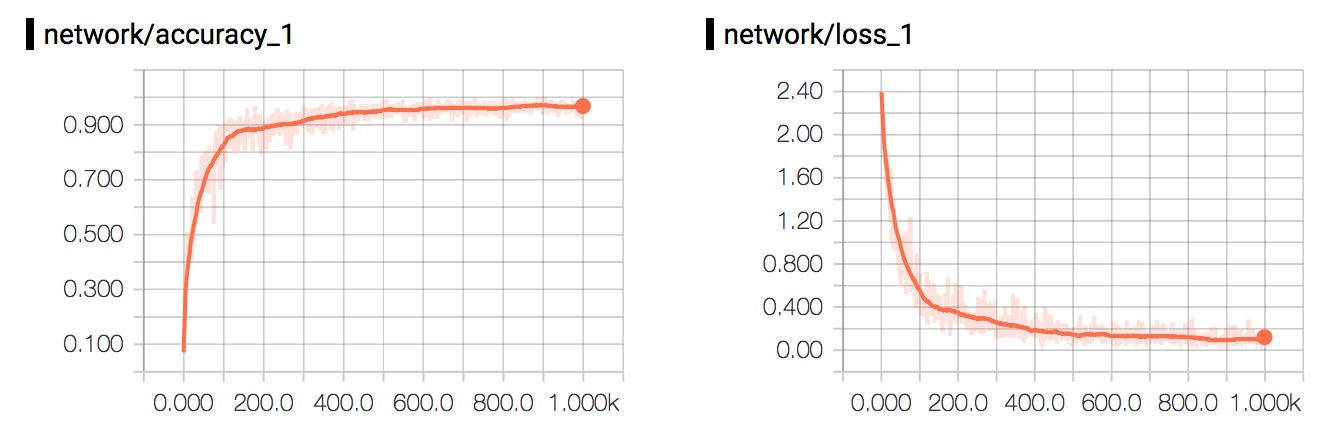
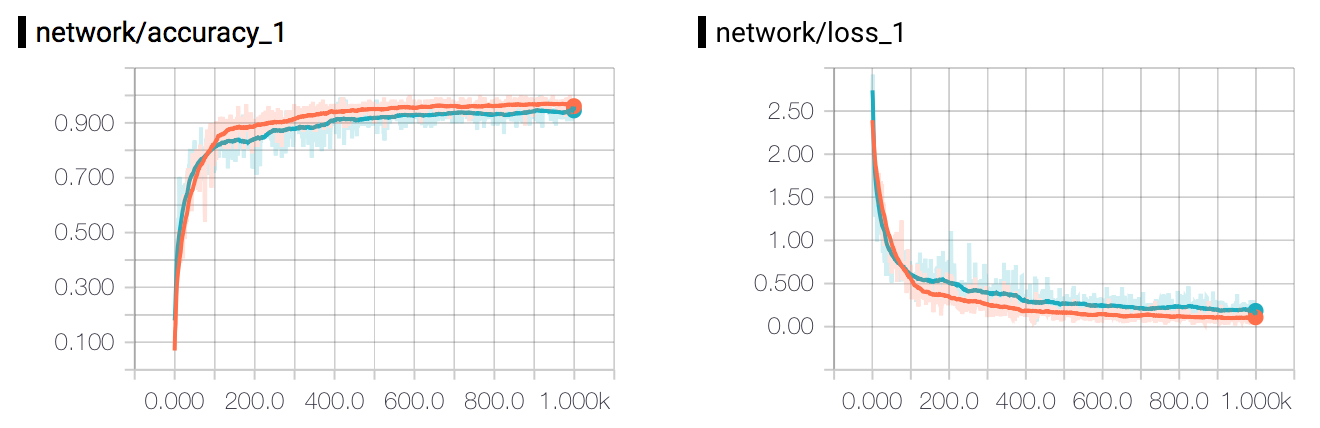
Update with the option to select cell type and update readme accordingly

diff --git a/experiments/rnn-mnist/network.py b/experiments/rnn-mnist/network.py
@@ -1,7 +1,7 @@
 import tensorflow as tf
 
 class RecurrentNeuralNetwork(object):
-    def __init__(self, device, random_seed, hidden_size, input_size, sequence_length, batch_size, learning_rate, optimizer):
+    def __init__(self, device, random_seed, hidden_size, input_size, sequence_length, cell_type, batch_size, learning_rate, optimizer):
         self.sess = tf.Session()
 
         with tf.device(device):
@@ -23,13 +23,18 @@ class RecurrentNeuralNetwork(object):
                 # Target input with shape [?, 10]
                 with tf.name_scope('target_input') as scope:
                     self.y_ = tf.placeholder(tf.float32, shape=[None, 10], name='target-output')
-                
-            lstm_cell = tf.contrib.rnn.BasicLSTMCell(hidden_size, forget_bias=1.0, state_is_tuple=True)
-            with tf.name_scope('initial_state') as scope:
-                state = lstm_cell.zero_state(batch_size, dtype=tf.float32)
+            
+            if cell_type == 'rnn':
+                cell = tf.contrib.rnn.BasicRNNCell(hidden_size)
+                with tf.name_scope('initial_state') as scope:
+                    state = cell.zero_state(batch_size, dtype=tf.float32)
+                    #state = tf.placeholder(tf.float32, [batch_size, hidden_size])
+            else: #LSTM
+                cell = tf.contrib.rnn.BasicLSTMCell(hidden_size, forget_bias=1.0, state_is_tuple=True)
+                with tf.name_scope('initial_state') as scope:
+                    state = cell.zero_state(batch_size, dtype=tf.float32)
 
-
-            outputs, state = tf.contrib.rnn.static_rnn(lstm_cell, x_split, state)
+            outputs, state = tf.contrib.rnn.static_rnn(cell, x_split, state)
             
             # Output with shape [?, 10]
             with tf.name_scope('output') as scope:

diff --git a/experiments/rnn-mnist/rnn-mnist.py b/experiments/rnn-mnist/rnn-mnist.py
@@ -15,7 +15,8 @@ flags = tf.app.flags
 # Network
 flags.DEFINE_integer('sequence_length', 28, 'Length of each RNN sequence.')
 flags.DEFINE_integer('input_size', 28, 'Size of each input.')
-flags.DEFINE_integer('hidden_size', 128, 'Number ofidden LSTM cells.')
+flags.DEFINE_integer('hidden_size', 128, 'Number of hidden cells.')
+flags.DEFINE_string('cell_type', 'lstm', 'Type of cell to use in the RNN.')
 
 # Optimizer
 flags.DEFINE_float('learning_rate', 0.001, 'Learning rate of the optimizer.')
@@ -46,14 +47,16 @@ network = RecurrentNeuralNetwork(
     settings.random_seed, 
     settings.hidden_size, 
     settings.input_size, 
-    settings.sequence_length, 
+    settings.sequence_length,
+    settings.cell_type, 
     settings.minibatch_size, 
     settings.learning_rate, 
     settings.optimizer)
 
 # Statistics summary writer
-summary_dir = '../../logs/rnn-mnist_hiddensize-{}_minibatches-{}_minibatchsize-{}_lr-{}_optimizer-{}/'.format(
+summary_dir = '../../logs/rnn-mnist_hiddensize-{}_celltype-{}_minibatches-{}_minibatchsize-{}_lr-{}_optimizer-{}/'.format(
     settings.hidden_size, 
+    settings.cell_type,
     settings.minibatches, 
     settings.minibatch_size, 
     settings.learning_rate, 

diff --git a/experiments/rnn-mnist/README.md b/experiments/rnn-mnist/README.md
@@ -38,6 +38,8 @@ The customizable parameters of this experiment - and their default values - are 
 * ```sequence_length``` -  ```28``` -Length of each RNN sequence.
 * ```input_size``` -  ```28``` -Size of each input.
 * ```hidden_size``` -  ```128``` - Number of hidden LSTM cells.
+* ```cell_type``` -  ```lstm``` - Type of cell to use in the RNN.
+
 
 #### Optimizer
 * ```learning_rate``` - ```0.05``` - Learning rate of the optimizer.
@@ -54,8 +56,9 @@ to ```gradient_descent```.
 
 ## Experiment Results
 
-The implementation is really straight forward and should receive an accuracy of ≈97% on the test set.
-The plot below shows a standard run will all default parameters.
+While running this experiment, you can expect to receive an accuracy of around ≈94% using **RNN** as your ```cell_type```. However, going with the more robust **LSTM** cell should get you all the way to ≈97%.
+
+The plot below shows two runs with all default parameters where orange one represents **LSTM** while the blue one represents **RNN**.
 <p align="center">
   <img src="../../images/plots/rnn-mnist-plot.png", width="70%"/>
 </p>
